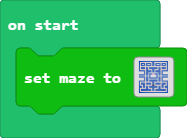
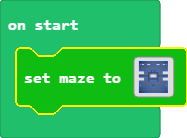
Hero now constrained to correct tiles

Changed region(s): [[0.1872, 0.3188, 1.0, 0.7826], [0.7487, 0.4348, 0.9091, 0.6667], [0.0802, 0.3188, 0.3209, 0.8406]]

diff --git a/tilemap.g.ts b/tilemap.g.ts
@@ -69,18 +69,20 @@ namespace myTiles {
     //% fixedInstance jres blockIdentity=images._tile
     export const tile34 = image.ofBuffer(hex``);
     //% fixedInstance jres blockIdentity=images._tile
-    export const tile35 = image.ofBuffer(hex``);
-    //% fixedInstance jres blockIdentity=images._tile
-    export const tile1 = image.ofBuffer(hex``);
-    //% fixedInstance jres blockIdentity=images._tile
     export const tile25 = image.ofBuffer(hex``);
     //% fixedInstance jres blockIdentity=images._tile
     export const tile36 = image.ofBuffer(hex``);
+    //% fixedInstance jres blockIdentity=images._tile
+    export const tile37 = image.ofBuffer(hex``);
+    //% fixedInstance jres blockIdentity=images._tile
+    export const tile1 = image.ofBuffer(hex``);
+    //% fixedInstance jres blockIdentity=images._tile
+    export const tile35 = image.ofBuffer(hex``);
 
     helpers._registerFactory("tilemap", function(name: string) {
         switch(helpers.stringTrim(name)) {
             case "maze":
[2 lines of base64/hex data omitted]
 ............................
 ............................
 ............................
@@ -112,7 +114,7 @@ namespace myTiles {
 ............................
 ............................
 ............................
-`, [myTiles.transparency8,myTiles.tile2,myTiles.tile3,myTiles.tile4,myTiles.tile5,myTiles.tile7,myTiles.tile8,myTiles.tile9,myTiles.tile10,myTiles.tile11,myTiles.tile12,myTiles.tile13,myTiles.tile14,myTiles.tile6,myTiles.tile15,myTiles.tile16,myTiles.tile17,myTiles.tile18,myTiles.tile19,myTiles.tile20,myTiles.tile21,myTiles.tile22,myTiles.tile23,myTiles.tile24,myTiles.tile26,myTiles.tile27,myTiles.tile29,myTiles.tile28,myTiles.tile30,myTiles.tile31,myTiles.tile32,myTiles.tile33,myTiles.tile34,myTiles.tile35,myTiles.tile25,myTiles.tile36,myTiles.tile1], TileScale.Eight);
+`, [myTiles.transparency8,myTiles.tile2,myTiles.tile3,myTiles.tile4,myTiles.tile5,myTiles.tile7,myTiles.tile8,myTiles.tile9,myTiles.tile10,myTiles.tile11,myTiles.tile12,myTiles.tile13,myTiles.tile14,myTiles.tile6,myTiles.tile15,myTiles.tile16,myTiles.tile17,myTiles.tile18,myTiles.tile19,myTiles.tile20,myTiles.tile21,myTiles.tile22,myTiles.tile23,myTiles.tile24,myTiles.tile26,myTiles.tile27,myTiles.tile29,myTiles.tile28,myTiles.tile30,myTiles.tile31,myTiles.tile32,myTiles.tile33,myTiles.tile34,myTiles.tile35,myTiles.tile25,myTiles.tile36,myTiles.tile1,myTiles.tile37], TileScale.Eight);
         }
         return null;
     })
@@ -185,14 +187,16 @@ namespace myTiles {
             case "tile33":return tile33;
             case "myTile32":
             case "tile34":return tile34;
-            case "myTile33":
-            case "tile35":return tile35;
-            case "tile_hero":
-            case "tile1":return tile1;
             case "tile_pill":
             case "tile25":return tile25;
-            case "tile_powerpill":
+            case "tile_power":
             case "tile36":return tile36;
+            case "tile_empty":
+            case "tile37":return tile37;
+            case "tile_home":
+            case "tile1":return tile1;
+            case "myTile33":
+            case "tile35":return tile35;
         }
         return null;
     })

diff --git a/maze_map.ts b/maze_map.ts
@@ -1,9 +1,10 @@
 namespace maze {
     export enum MapFlags {
         None = 0,
-        Player = 1 << 0,
+        Empty = 1 << 0,
         Pill = 1 << 1,
-        PowerPill = 1 << 2,
+        Power = 1 << 2,
+        Player = 1 << 3,
     }
 
     export class Map {
@@ -25,13 +26,7 @@ namespace maze {
             return tx + (ty * this.w)
         }
 
-
-        getFlag(tx: number, ty: number, flag: MapFlags): boolean {
-            const i = this.getIndex(tx, ty)
-            return (this.tiles[i] & flag) != 0
-        }
-
-        setFlag(tx: number, ty: number, flag: MapFlags, on: boolean) {
+        private setFlag(tx: number, ty: number, flag: MapFlags, on: boolean) {
             const i = this.getIndex(tx, ty)
             if (on) {
                 this.tiles[i] |= flag
@@ -40,11 +35,16 @@ namespace maze {
             }
         }
 
+        getFlag(tx: number, ty: number, flag: MapFlags): boolean {
+            const i = this.getIndex(tx, ty)
+            return (this.tiles[i] & flag) != 0
+        }
+
         private initHome() {
             // Find hero home
             this.homeX = 0
             this.homeY = 0
-            const locs = tiles.getTilesByType(assets.tile`tile_hero`)
+            const locs = tiles.getTilesByType(assets.tile`tile_home`)
             if (locs.length > 0) {
                 for (const loc of locs) {
                     this.homeX += loc.x
@@ -55,29 +55,27 @@ namespace maze {
             }
         }
 
-        private initTiles(img: Image, flag: MapFlags) {
+        private initFlagsFromTiles(img: Image, flag: MapFlags) {
             const locs = tiles.getTilesByType(img)
             for (const loc of locs) {
                 this.setFlag(loc.col, loc.row, flag, true)
-                console.log("flag: " + flag + " " + loc.col + "," + loc.row)
             }
         }
 
-        init(tilemap: tiles.TileMapData) {
-            this.w = tilemap.width
-            this.h = tilemap.height
-            this.tiles.length = (this.w * this.h)
-
-            this.initHome()
-            this.initTiles(assets.tile`tile_pill`, MapFlags.Pill)
-            this.initTiles(assets.tile`tile_powerpill`, MapFlags.PowerPill)
+        private initFlagsFromFlags(f1: MapFlags, f2: MapFlags) {
+            for (let i = 0; i < this.tiles.length; ++i) {
+                if (this.tiles[i] & f1) {
+                    this.tiles[i] |= f2
+                }
+            }
         }
 
-        private eat(tx: number, ty: number, flag: MapFlags): boolean  {      
+        private clearTile(tx: number, ty: number, flag: MapFlags): boolean  {      
             if (this.getFlag(tx, ty, flag)) {
+                // clear the flag
                 this.setFlag(tx, ty, flag, false)
 
-                // Hide the tile
+                // hide the tile
                 const loc = tiles.getTileLocation(tx, ty)
                 tiles.setTileAt(loc, assets.tile`transparency16`)
                 return true
@@ -85,12 +83,32 @@ namespace maze {
             return false
         }
 
-        eatPill(tx: number, ty: number):  boolean {
-            return this.eat(tx, ty, MapFlags.Pill)
+        init(tilemap: tiles.TileMapData) {
+            this.w = tilemap.width
+            this.h = tilemap.height
+            this.tiles.length = (this.w * this.h)
+
+            // find player home position
+            this.initHome()
+
+            // find pill tiles
+            this.initFlagsFromTiles(assets.tile`tile_empty`, MapFlags.Empty)
+            this.initFlagsFromTiles(assets.tile`tile_home`, MapFlags.Empty)
+            this.initFlagsFromTiles(assets.tile`tile_pill`, MapFlags.Pill)
+            this.initFlagsFromTiles(assets.tile`tile_power`, MapFlags.Power)
+
+            // find all player tiles
+            this.initFlagsFromFlags(MapFlags.Empty, MapFlags.Player)
+            this.initFlagsFromFlags(MapFlags.Pill, MapFlags.Player)
+            this.initFlagsFromFlags(MapFlags.Power, MapFlags.Player)
         }
 
-        eatPowerPill(tx: number, ty: number): boolean {
-            return this.eat(tx, ty, MapFlags.PowerPill)
+        eatPill(tx: number, ty: number):  boolean {
+            return this.clearTile(tx, ty, MapFlags.Pill)
+        }
+
+        eatPower(tx: number, ty: number): boolean {
+            return this.clearTile(tx, ty, MapFlags.Power)
         }
     }
 

diff --git a/maze_mover.ts b/maze_mover.ts
@@ -16,6 +16,7 @@ namespace maze {
         fvx: number                 // frozen speed x
         fvy: number                 // frozen speed y
         changedTile: boolean
+        mapType: MapFlags
 
         constructor() {
             this.x = 0
@@ -31,6 +32,7 @@ namespace maze {
             this.fvx = 0
             this.fvy = 0
             this.changedTile = false
+            this.mapType = MapFlags.None
         }
 
         private updateState() {
@@ -187,8 +189,8 @@ namespace maze {
         }
 
         private checkTile(tx: number, ty: number, dir: Direction) {
-            const loc = tiles.getTileLocation(tx, ty)
-            if (loc && !loc.isWall()) {
+            const map = getMaze().map
+            if (map.getFlag(tx, ty, this.mapType)) {
                 this.validDirs |= dir
             }
         }

diff --git a/maze_hero.ts b/maze_hero.ts
@@ -8,6 +8,7 @@ namespace maze {
 
         init(img: Image) {
             this.mover.init(img)
+            this.mover.mapType = MapFlags.Player
             scene.cameraFollowSprite(this.mover.sprite)
         }
 
@@ -39,8 +40,8 @@ namespace maze {
                 const maze = getMaze()
                 if (maze.map.eatPill(this.mover.tx, this.mover.ty)) {
                     maze.audio.play(Effect.Pill)
-                } else if (maze.map.eatPowerPill(this.mover.tx, this.mover.ty)) {
-                    maze.audio.play(Effect.PowerPill)
+                } else if (maze.map.eatPower(this.mover.tx, this.mover.ty)) {
+                    maze.audio.play(Effect.Power)
                 }
             }
         }

diff --git a/maze_audio.ts b/maze_audio.ts
@@ -1,7 +1,7 @@
 namespace maze {
     export enum Effect {
         Pill,
-        PowerPill,
+        Power,
         Count
     }
 
@@ -15,7 +15,7 @@ namespace maze {
 
         init() {
             this.sounds[Effect.Pill] = music.createSoundEffect(WaveShape.Sine, 838, 2584, 120, 120, 60, SoundExpressionEffect.None, InterpolationCurve.Linear)
-            this.sounds[Effect.PowerPill] = music.melodyPlayable(music.powerUp)
+            this.sounds[Effect.Power] = music.melodyPlayable(music.powerUp)
         }
 
         play(effect: Effect) {
